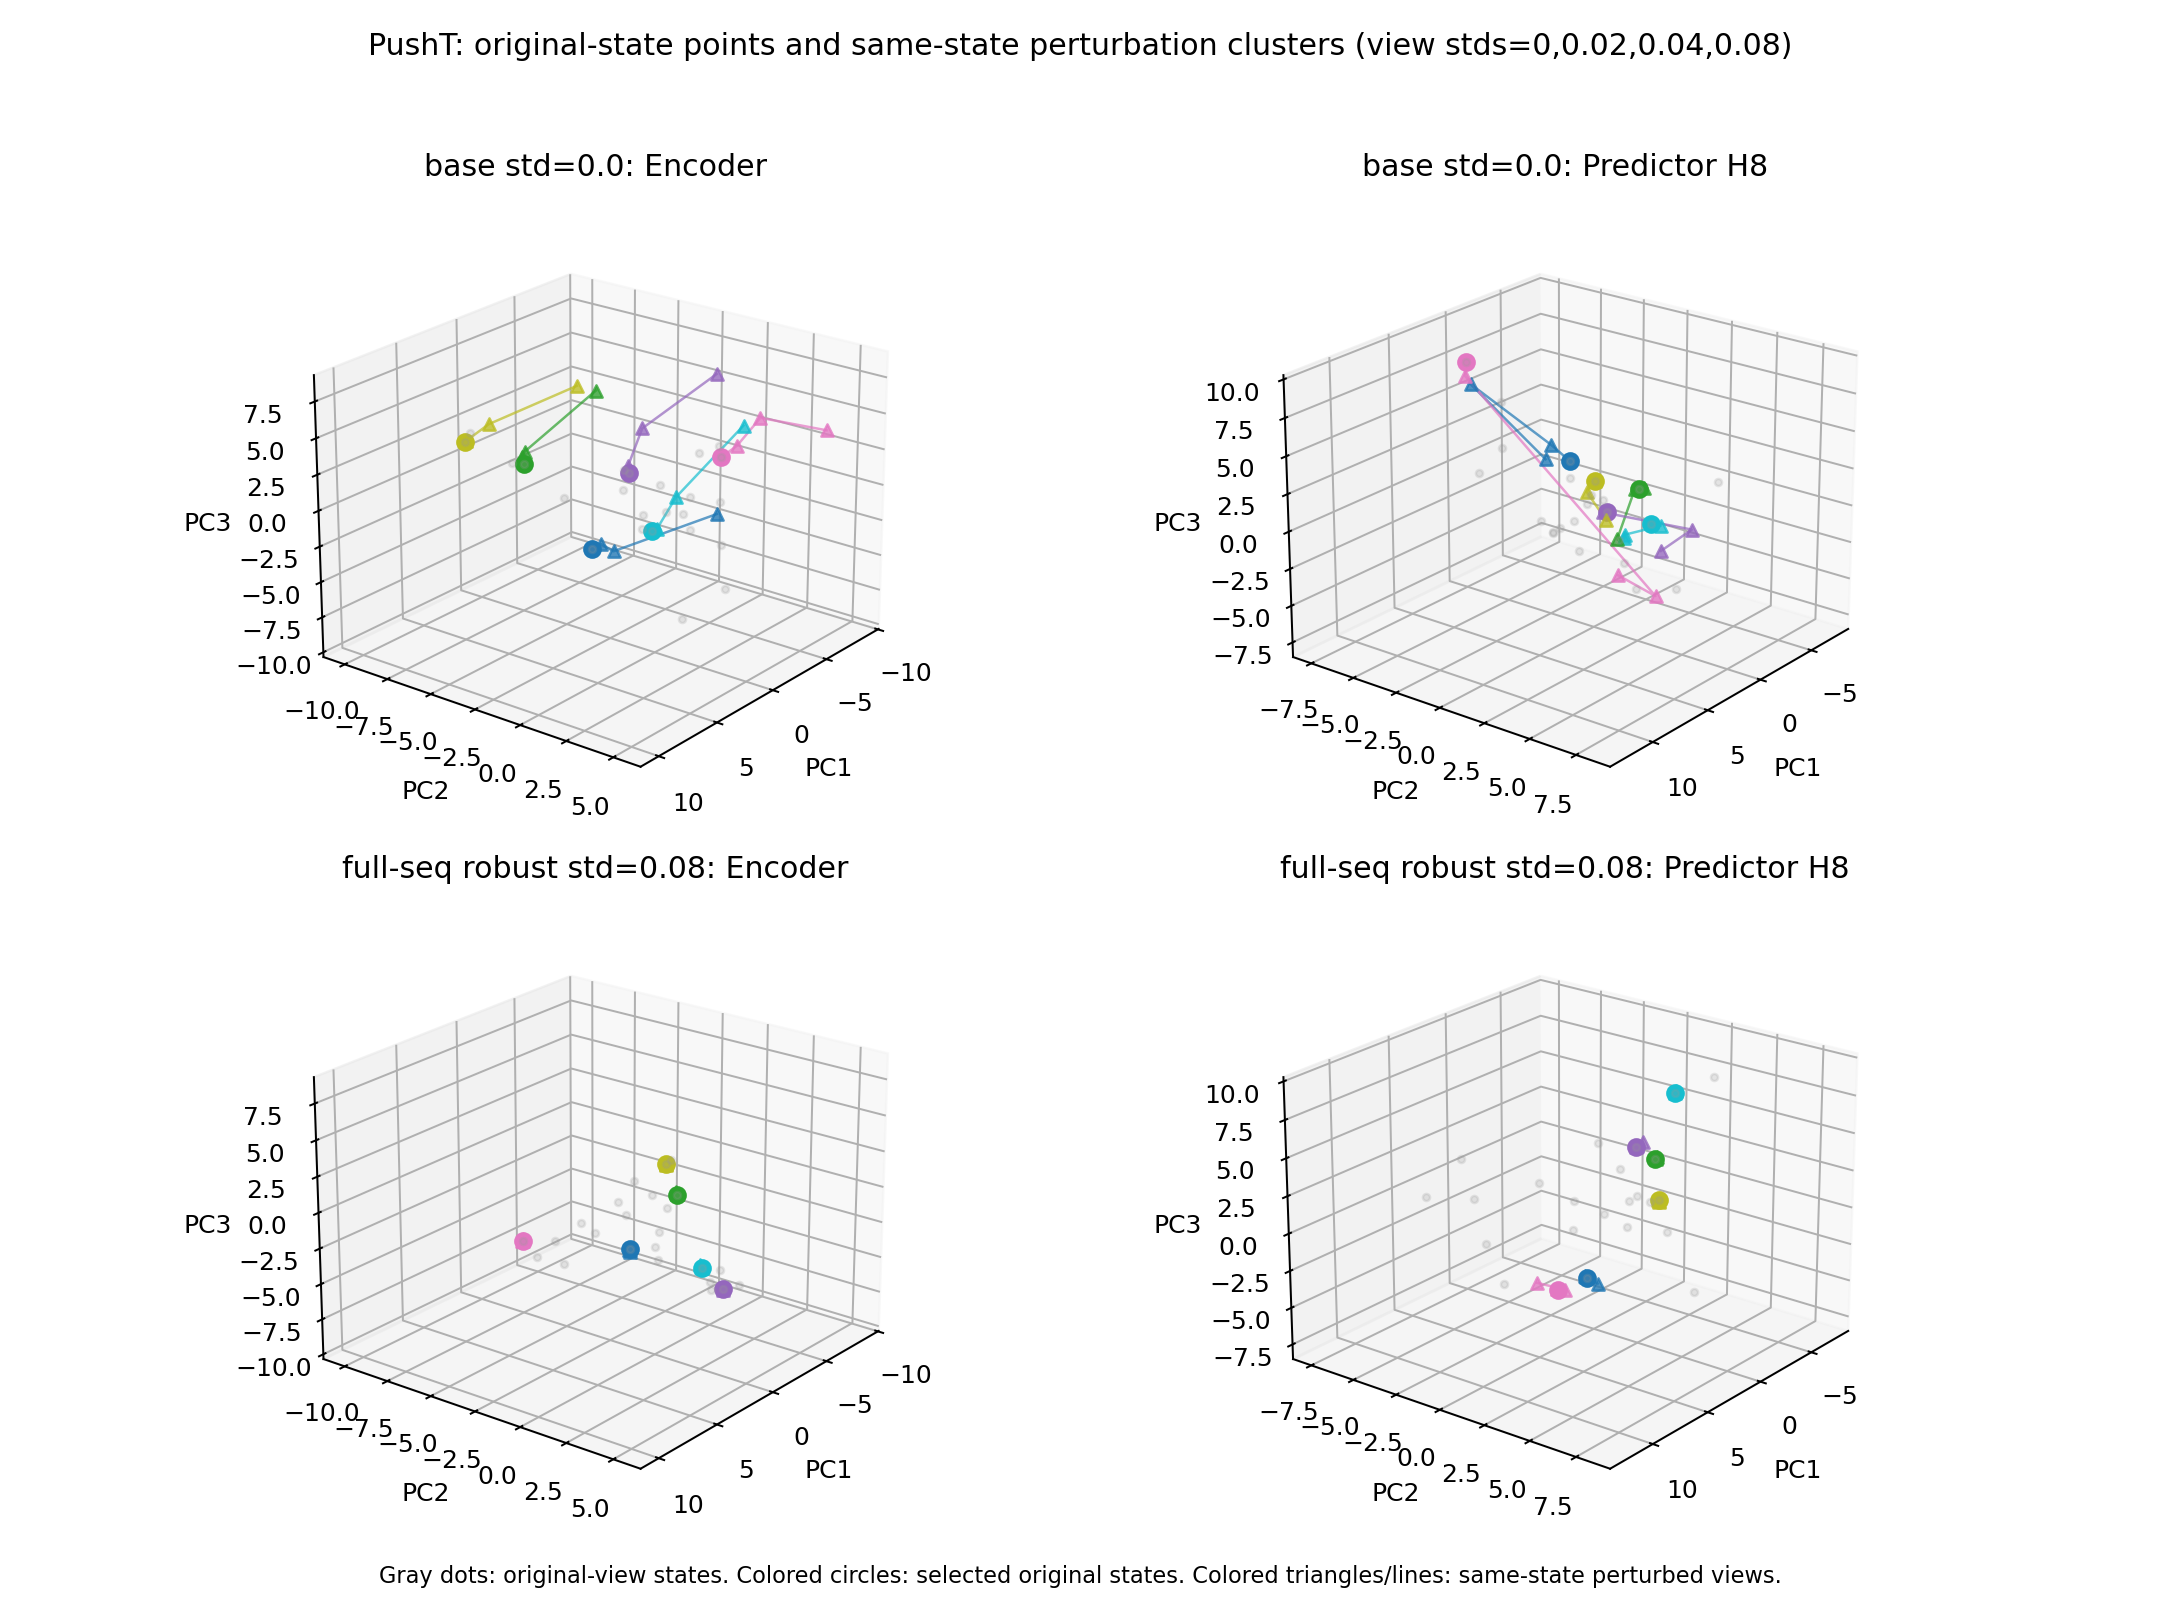
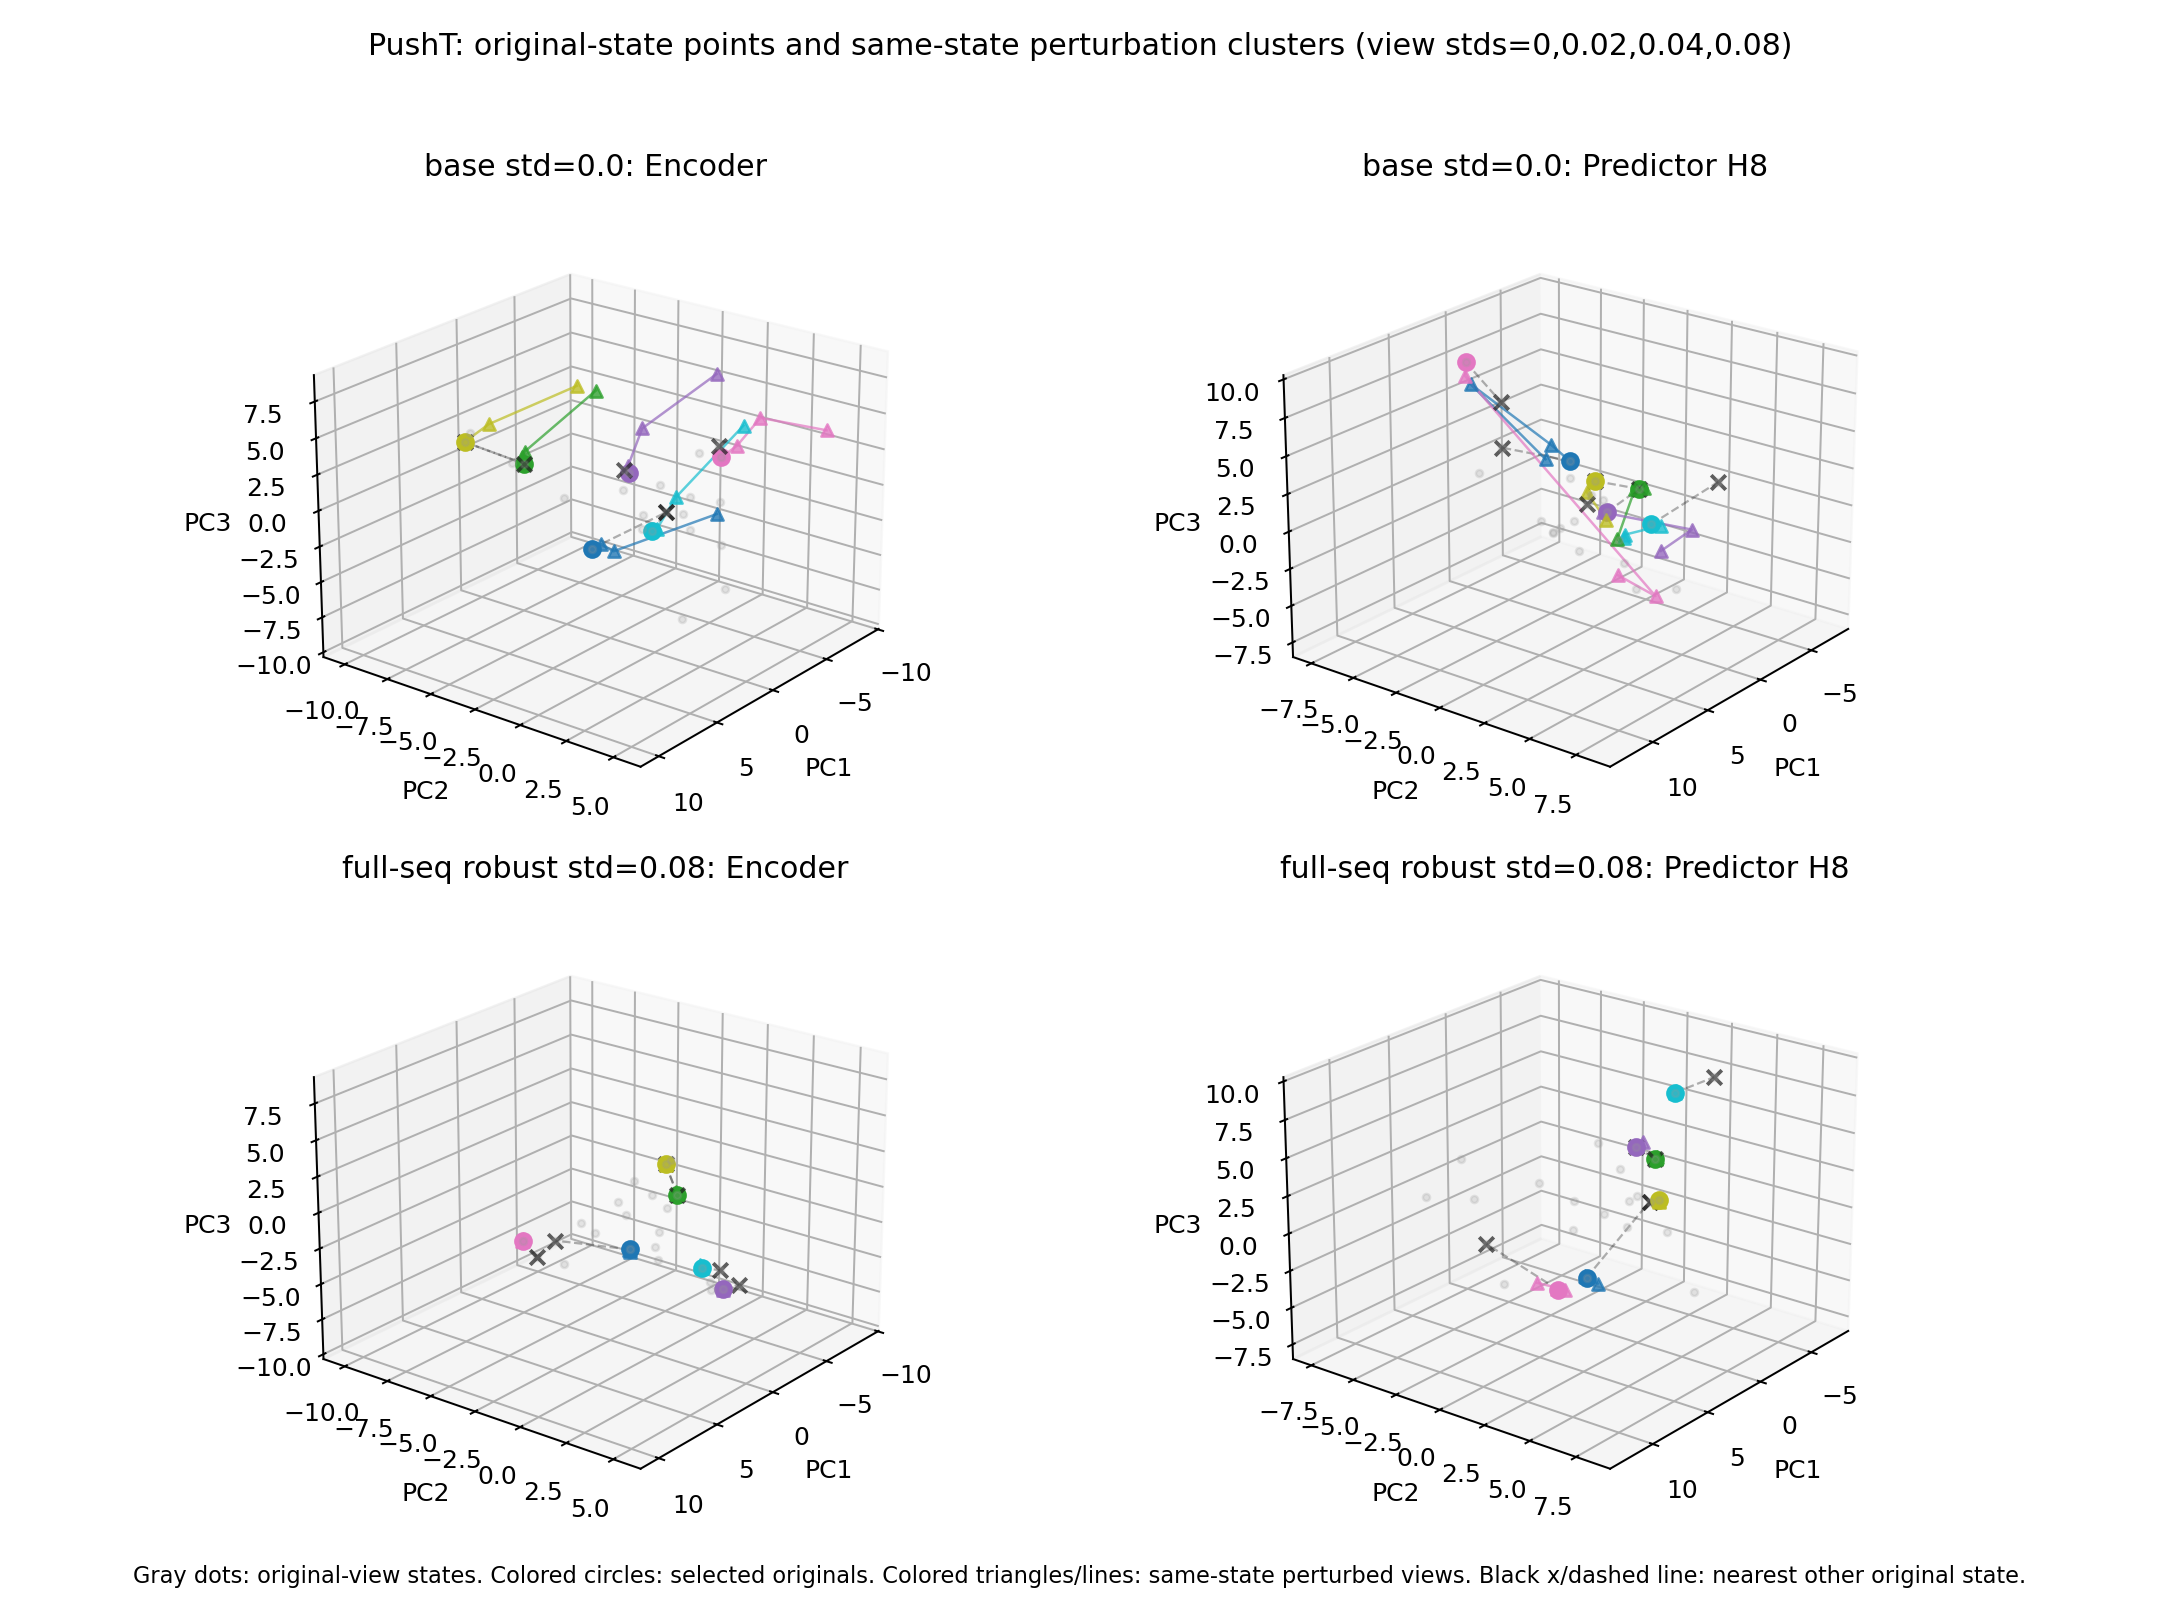
paper1: enhance selective contraction visualizations
- mark nearest original-state neighbors in 3D PCA plots

- render full-task branch visualization set

Changed region(s): [[0.062, 0.9568, 0.9306, 0.9877]]

diff --git a/tools/paper1_selective_contraction.py b/tools/paper1_selective_contraction.py
@@ -359,6 +359,14 @@ def _pca_fit_transform(arrays: Sequence[np.ndarray]) -> list[np.ndarray]:
     return out
 
 
+def _nearest_original_indices(features: np.ndarray, anchors: Sequence[int]) -> dict[int, int]:
+    """Nearest other original-state index for each anchor in original feature space."""
+    clean = features[0].reshape(features.shape[1], features.shape[2])
+    dists = np.linalg.norm(clean[:, None, :] - clean[None, :, :], axis=-1)
+    np.fill_diagonal(dists, np.inf)
+    return {int(i): int(np.argmin(dists[int(i)])) for i in anchors}
+
+
 def _axis_limits(arrays: Sequence[np.ndarray]) -> tuple[tuple[float, float], tuple[float, float], tuple[float, float]]:
     flat = np.concatenate([a.reshape(-1, 3) for a in arrays], axis=0)
     limits = []
@@ -467,6 +475,16 @@ def render_3d_task(
     pred_pca = _pca_fit_transform([encoded["base"]["predictor"], encoded["fullseq_robust"]["predictor"]])
     encoded["base"]["encoder_3d"], encoded["fullseq_robust"]["encoder_3d"] = enc_pca
     encoded["base"]["predictor_3d"], encoded["fullseq_robust"]["predictor_3d"] = pred_pca
+    nearest_indices = {
+        "base": {
+            "encoder_3d": _nearest_original_indices(encoded["base"]["encoder"], []),
+            "predictor_3d": _nearest_original_indices(encoded["base"]["predictor"], []),
+        },
+        "fullseq_robust": {
+            "encoder_3d": _nearest_original_indices(encoded["fullseq_robust"]["encoder"], []),
+            "predictor_3d": _nearest_original_indices(encoded["fullseq_robust"]["predictor"], []),
+        },
+    }
     axis_limits = {
         "encoder_3d": _axis_limits([encoded["base"]["encoder_3d"], encoded["fullseq_robust"]["encoder_3d"]]),
         "predictor_3d": _axis_limits([encoded["base"]["predictor_3d"], encoded["fullseq_robust"]["predictor_3d"]]),
@@ -477,6 +495,13 @@ def render_3d_task(
     anchors = np.linspace(0, n_sequences - 1, anchor_count, dtype=int)
     if anchor_count > 0:
         anchors = np.unique(anchors)
+    for label in ("base", "fullseq_robust"):
+        nearest_indices[label]["encoder_3d"] = _nearest_original_indices(
+            encoded[label]["encoder"], anchors
+        )
+        nearest_indices[label]["predictor_3d"] = _nearest_original_indices(
+            encoded[label]["predictor"], anchors
+        )
     colors = plt.cm.tab10(np.linspace(0, 1, max(1, len(anchors))))
     label_by_spec = {
         "base": f"base std=0.0",
@@ -498,6 +523,28 @@ def render_3d_task(
         for ci, state_idx in enumerate(anchors):
             color = colors[ci % len(colors)]
             pts = arr[:, state_idx, :]
+            nn_idx = nearest_indices[label][feature][int(state_idx)]
+            nn_pt = clean[nn_idx]
+            origin_pt = pts[0]
+            ax.plot(
+                [origin_pt[0], nn_pt[0]],
+                [origin_pt[1], nn_pt[1]],
+                [origin_pt[2], nn_pt[2]],
+                color="#222222",
+                alpha=0.35,
+                linewidth=0.9,
+                linestyle="--",
+            )
+            ax.scatter(
+                nn_pt[0:1],
+                nn_pt[1:2],
+                nn_pt[2:3],
+                s=34,
+                color="#222222",
+                marker="x",
+                alpha=0.72,
+                depthshade=False,
+            )
             ax.plot(pts[:, 0], pts[:, 1], pts[:, 2], color=color, alpha=0.7, linewidth=1.0)
             ax.scatter(pts[0:1, 0], pts[0:1, 1], pts[0:1, 2], s=42, color=[color], marker="o", depthshade=False)
             ax.scatter(pts[1:, 0], pts[1:, 1], pts[1:, 2], s=24, color=[color], marker="^", alpha=0.78, depthshade=False)
@@ -518,8 +565,8 @@ def render_3d_task(
     fig.text(
         0.5,
         0.02,
-        "Gray dots: original-view states. Colored circles: selected original states. "
-        "Colored triangles/lines: same-state perturbed views.",
+        "Gray dots: original-view states. Colored circles: selected originals. "
+        "Colored triangles/lines: same-state perturbed views. Black x/dashed line: nearest other original state.",
         ha="center",
         va="bottom",
         fontsize=9,
